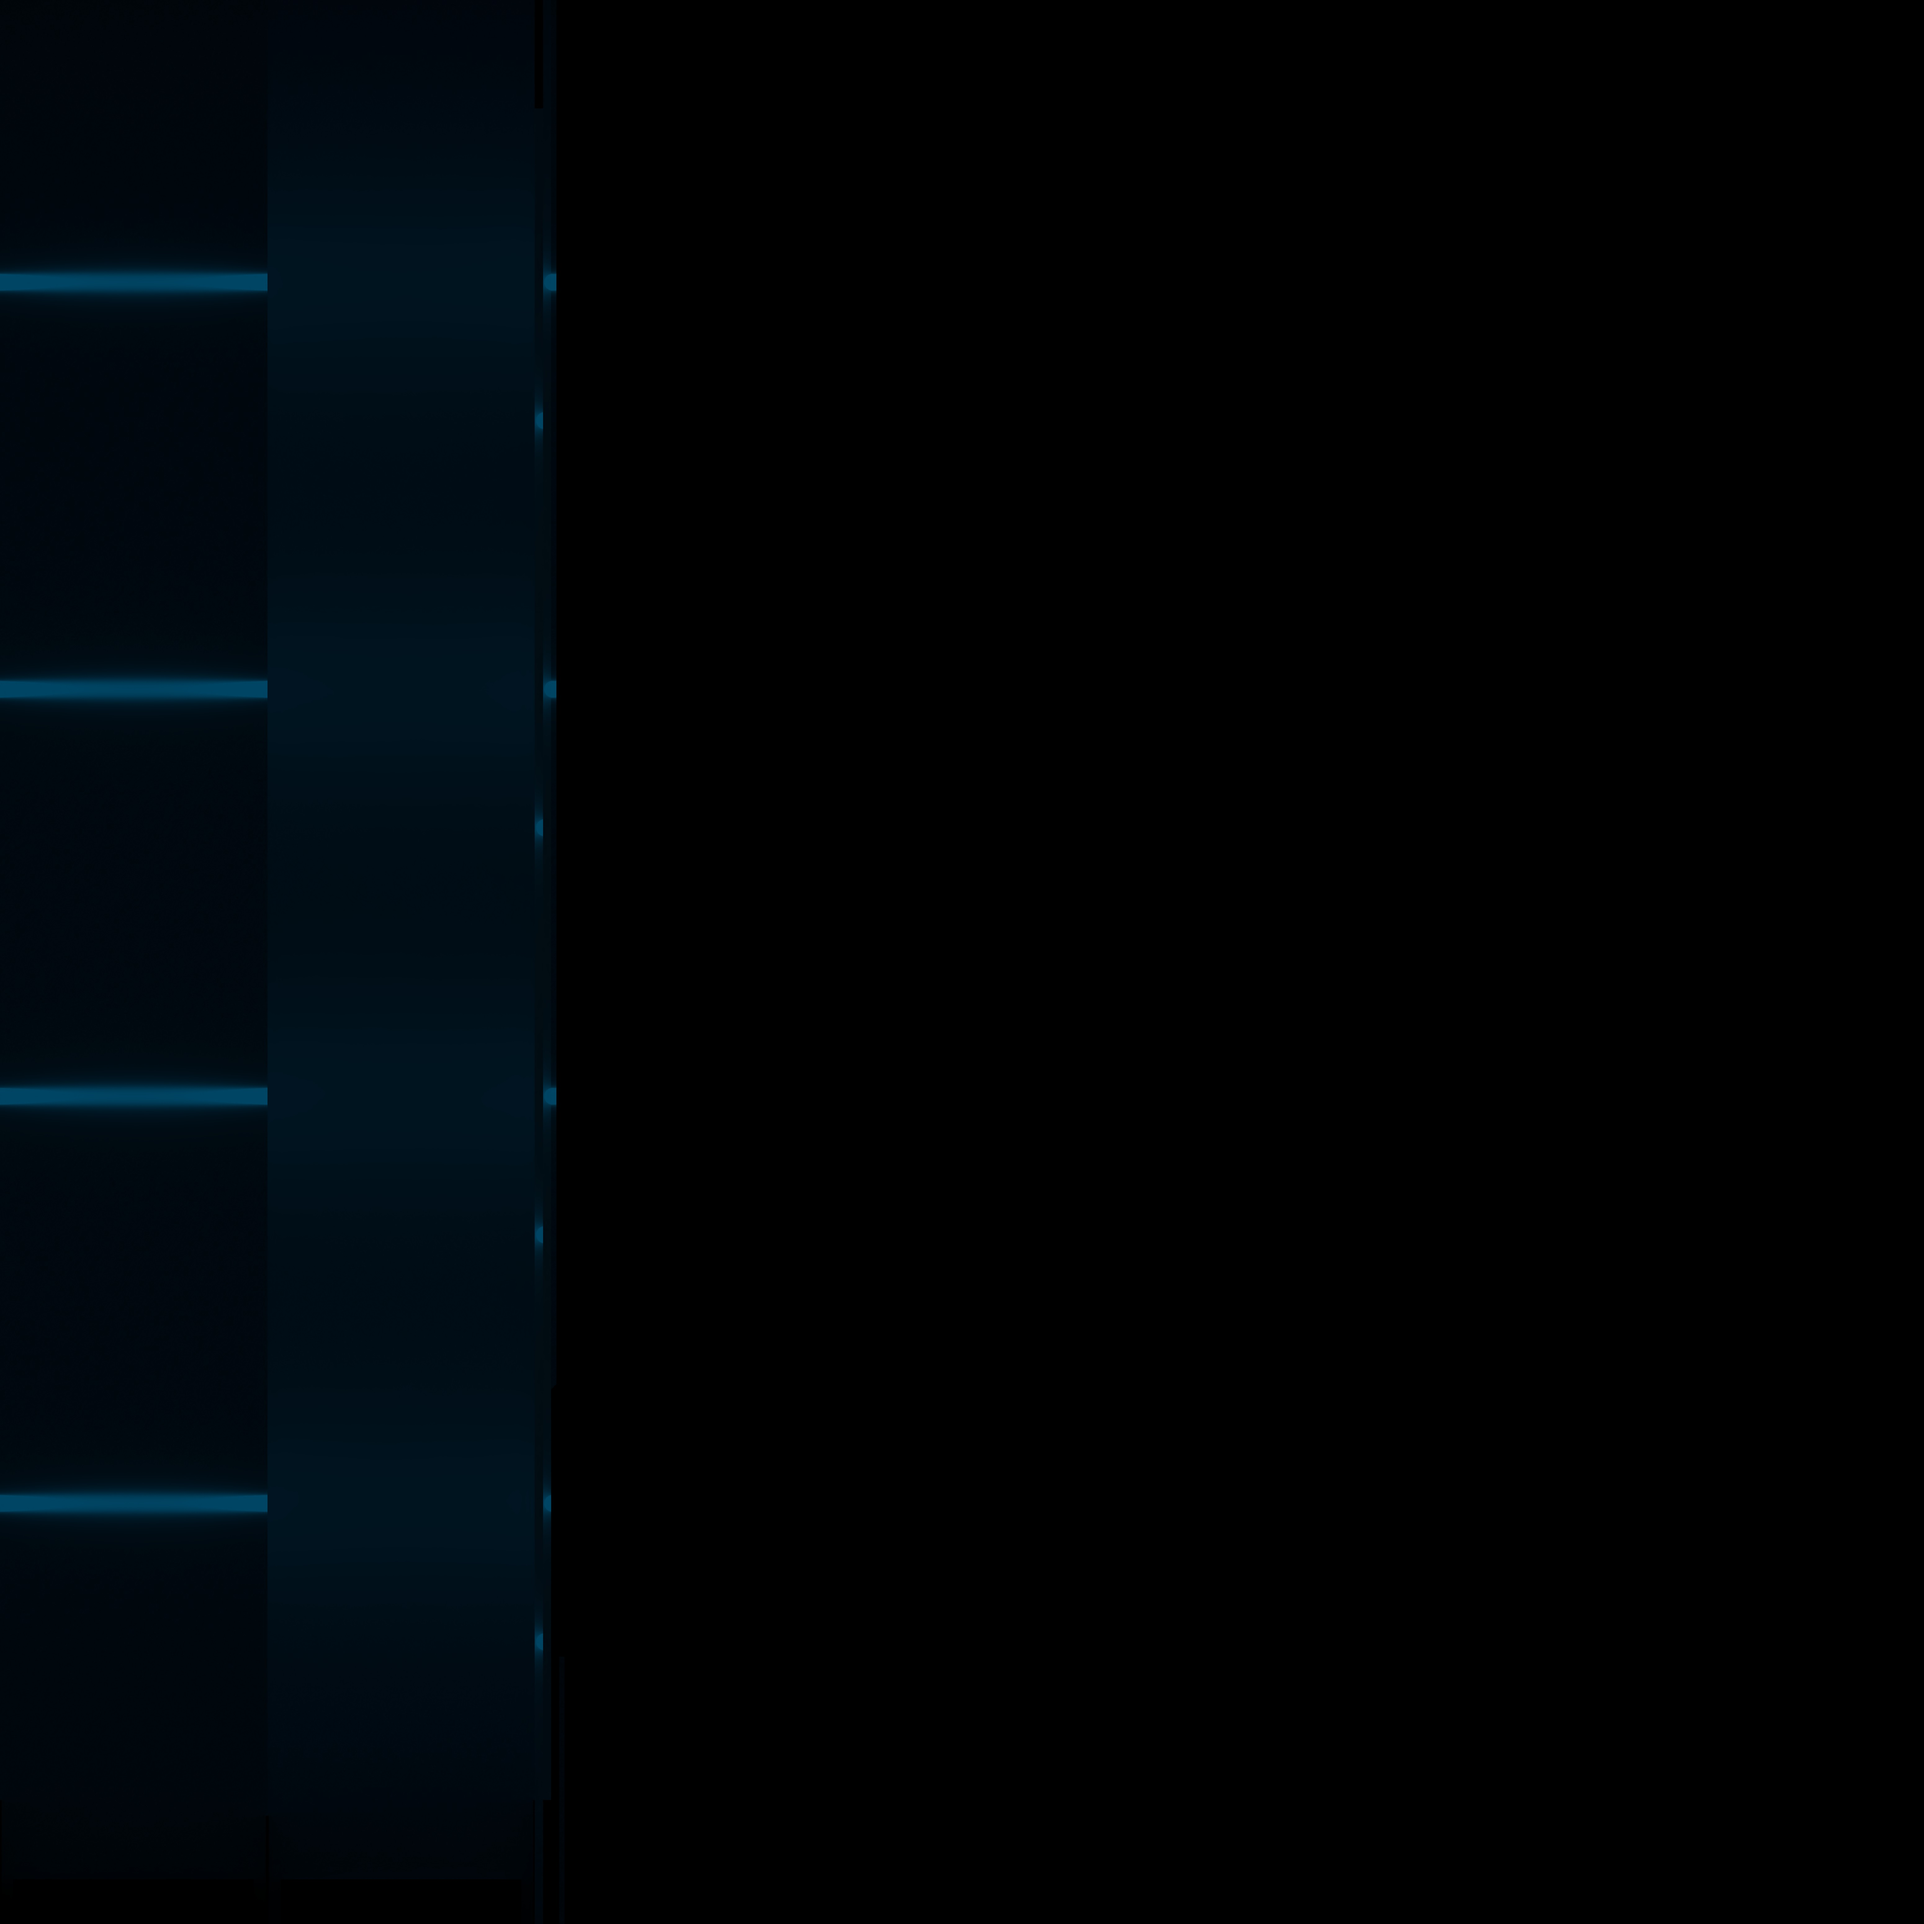
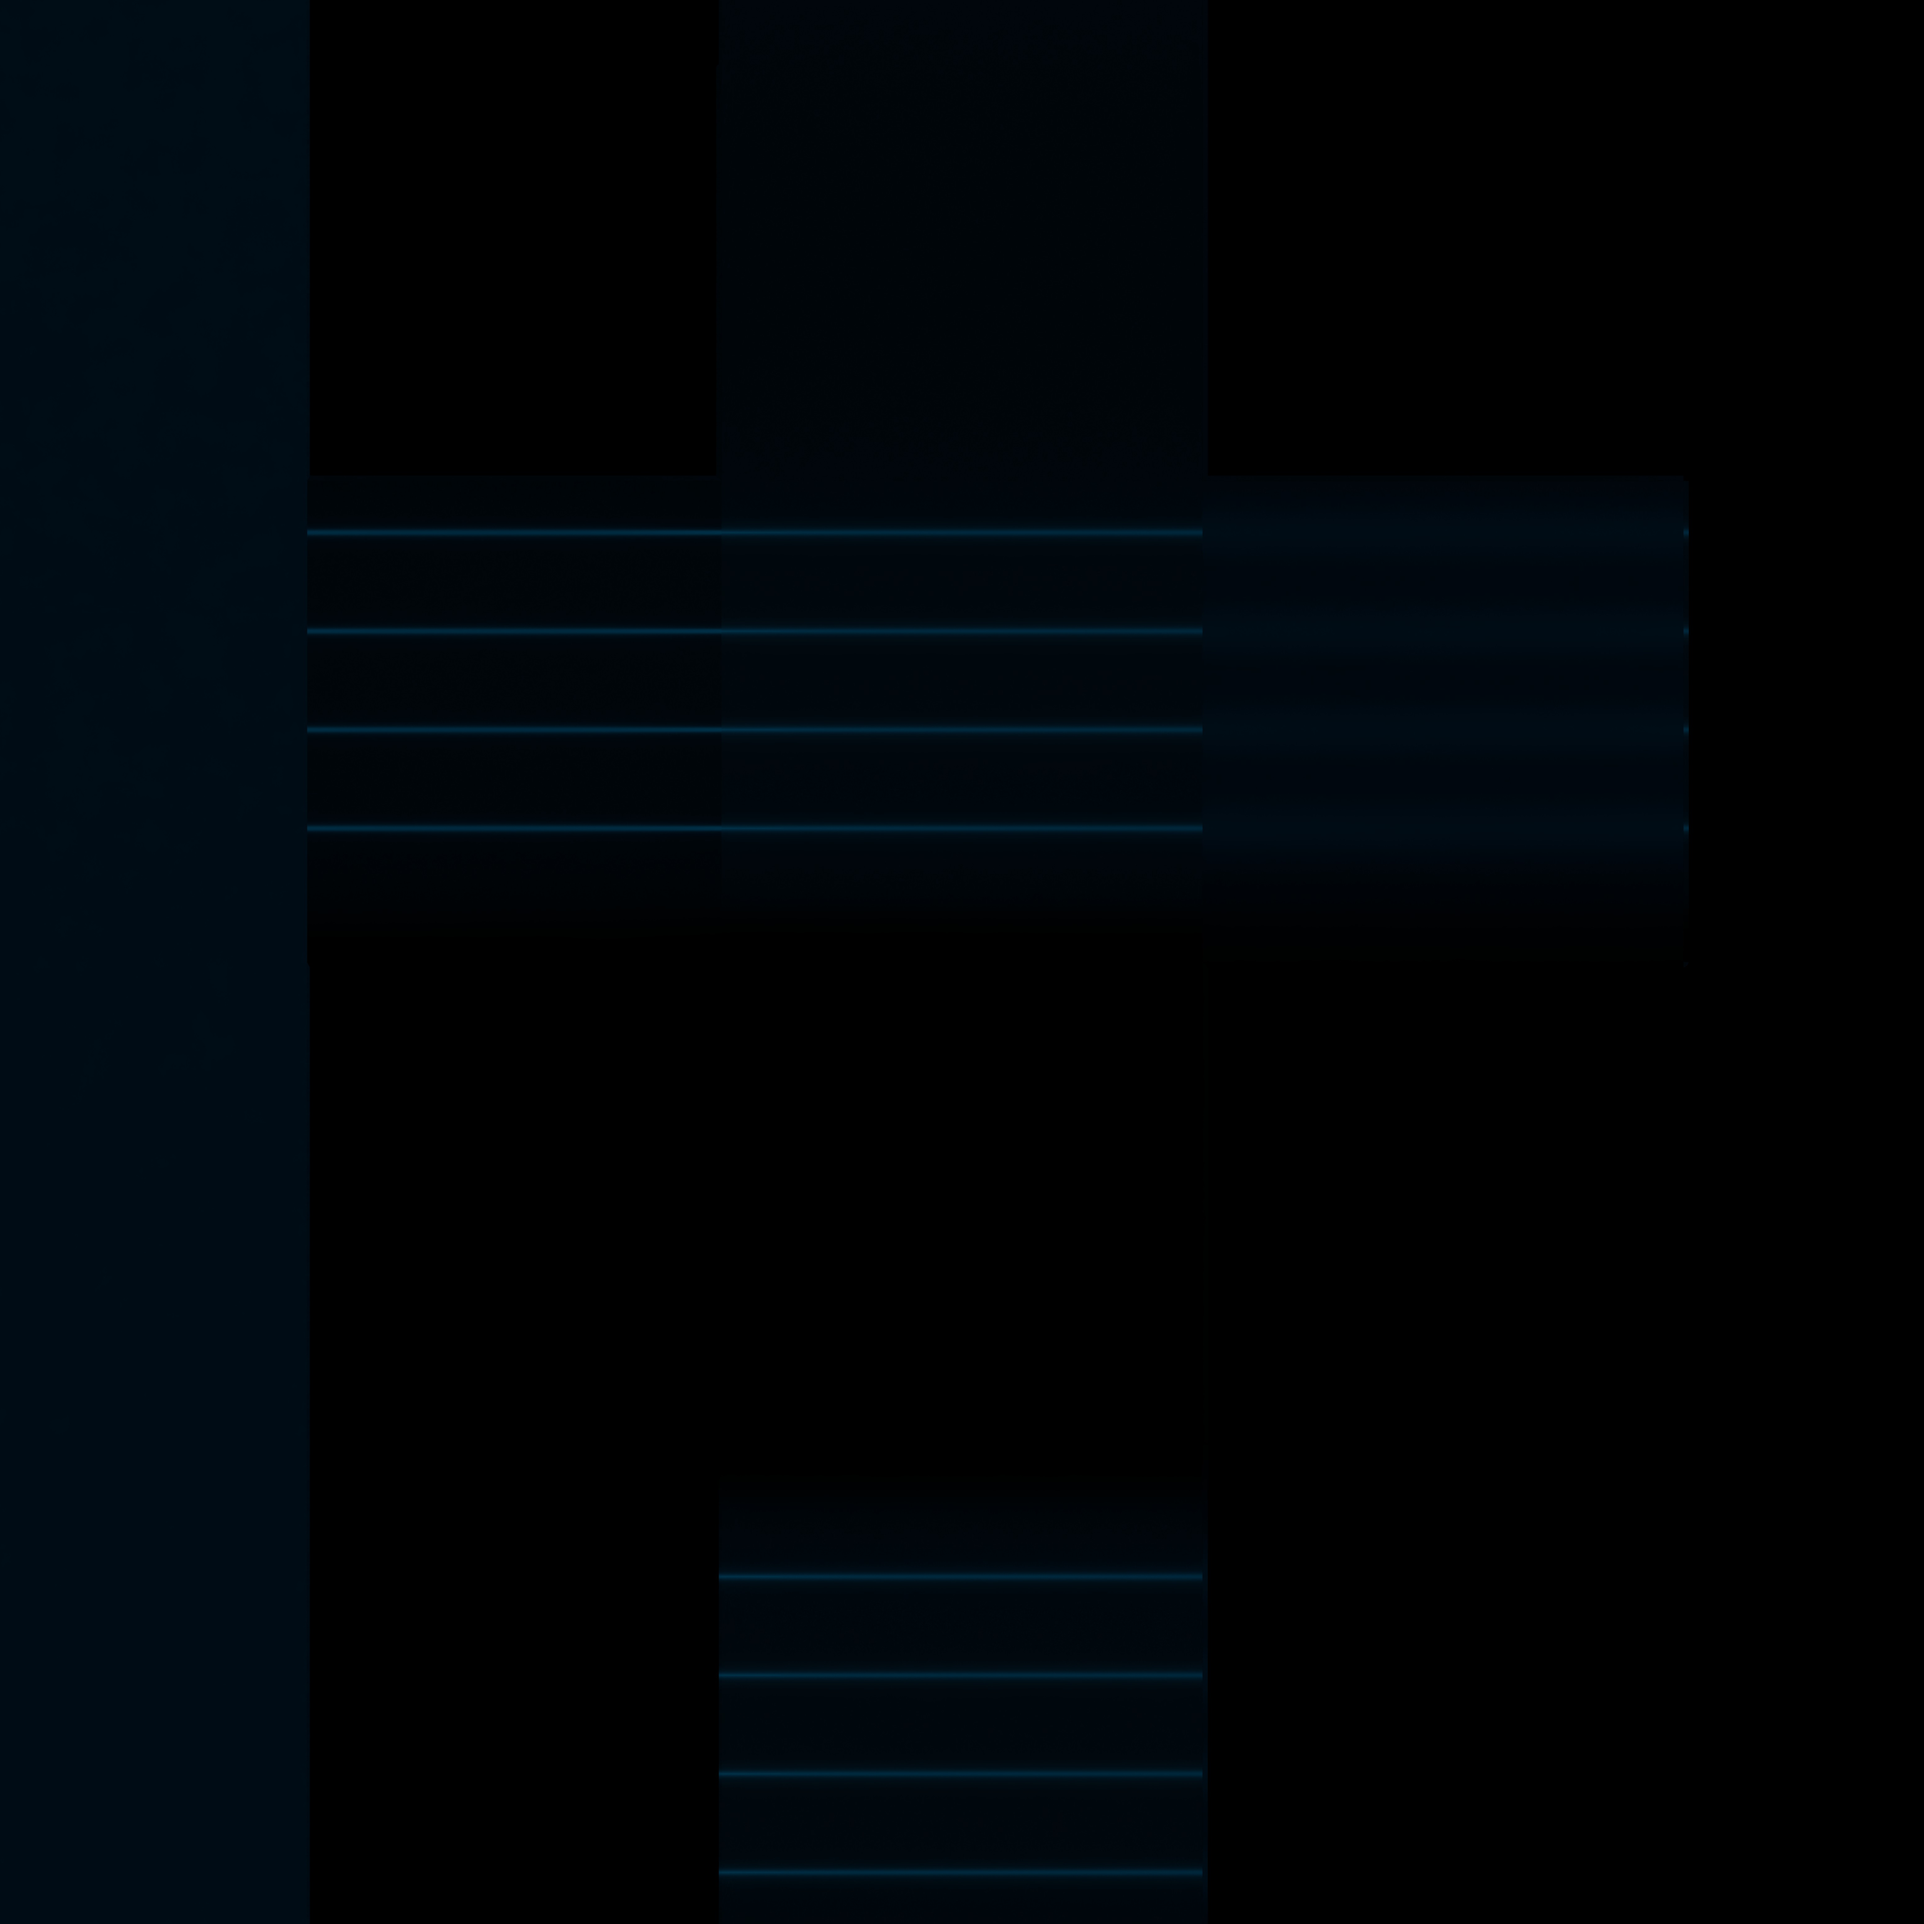
new crazy env map

diff --git a/src/components/organisms/Experience.jsx b/src/components/organisms/Experience.jsx
@@ -52,20 +52,18 @@ export default function Experience() {
       >
         <div style={{ height: "2000vh" }}>
           <motion.div className="sticky top-0" style={{ height: "100vh" }}>
-            <Canvas
-              shadows
-              // gl={{ physicallyCorrectLights: true }}
-            >
+            <Canvas shadows gl={{ physicallyCorrectLights: true }}>
               <IframedLeft
                 positionZ={-25}
                 url={"https://www.primalports.com/"}
               ></IframedLeft>
               <ProjectRight positionZ={-25} />
-              {/* <Environment resolution={2048} background frames={Infinity}>
+              <Environment resolution={2048} background frames={Infinity}>
                 <MovingMap scroll={scroll}>
+                  <ambientLight intensity={2}></ambientLight>
                   <BackgroundRTF></BackgroundRTF>
                 </MovingMap>
-              </Environment> */}
+              </Environment>
 
               <ProjectRight positionZ={-90} />
               <IframedLeft
@@ -78,32 +76,10 @@ export default function Experience() {
                 url={"https://humbertoragazzini.github.io/thewebglglobe/dist/"}
               />
               <ProjectLeft positionZ={-185} />
-              {/* <mesh
-                ref={targetRef}
-                position={[0, 0, 50]}
-                castShadow
-                receiveShadow
-              >
-                <boxGeometry args={[5, 5, 5]}></boxGeometry>
-                <meshStandardMaterial color={"white"}></meshStandardMaterial>
-              </mesh> */}
-              {/* <mesh
-                rotation={[-Math.PI / 2, 0, 0]}
-                position={[0, -6, 50]}
-                receiveShadow
-              >
-                <planeGeometry args={[15, 15]}></planeGeometry>
-                <meshStandardMaterial
-                  color={"white"}
-                  side={THREE.DoubleSide}
-                ></meshStandardMaterial>
-              </mesh> */}
-
               {/* <OrbitControls></OrbitControls> */}
-              {/* <Background></Background> */}
               <BackgroundRTF></BackgroundRTF>
               <Camera scroll={scroll}></Camera>
-              <MainScene />
+              {/* <MainScene /> */}
               <Lights targetRef={targetRef}></Lights>
             </Canvas>
           </motion.div>

diff --git a/src/components/atoms/BackgroundRTF.jsx b/src/components/atoms/BackgroundRTF.jsx
@@ -2,6 +2,7 @@ import React, { useRef } from "react";
 import { useGLTF, useTexture } from "@react-three/drei";
 import * as THREE from "three";
 import { text } from "framer-motion/m";
+import MainScene from "../MainScene";
 
 export function BackgroundRTF(props) {
   const { nodes, materials } = useGLTF("./blender/multibaking1.glb");
@@ -63,7 +64,8 @@ export function BackgroundRTF(props) {
 
   return (
     <group {...props} dispose={null}>
-      <ambientLight intensity={0.75}></ambientLight>
+      <ambientLight intensity={0}></ambientLight>
+      <MainScene />
       <group {...props} dispose={null}>
         <group position={[-2.887, 2.765, 2.643]}>
           <pointLight

diff --git a/src/components/MainScene.jsx b/src/components/MainScene.jsx
@@ -54,7 +54,7 @@ export default function Model(props) {
         castShadow
         receiveShadow
         geometry={nodes.Floor.geometry}
-        material={materials["Material.003"]}
+        material={textureMaterialFloor}
         position={[0, -15.057, -163.964]}
         scale={[11.624, 1.341, 4.007]}
       />
